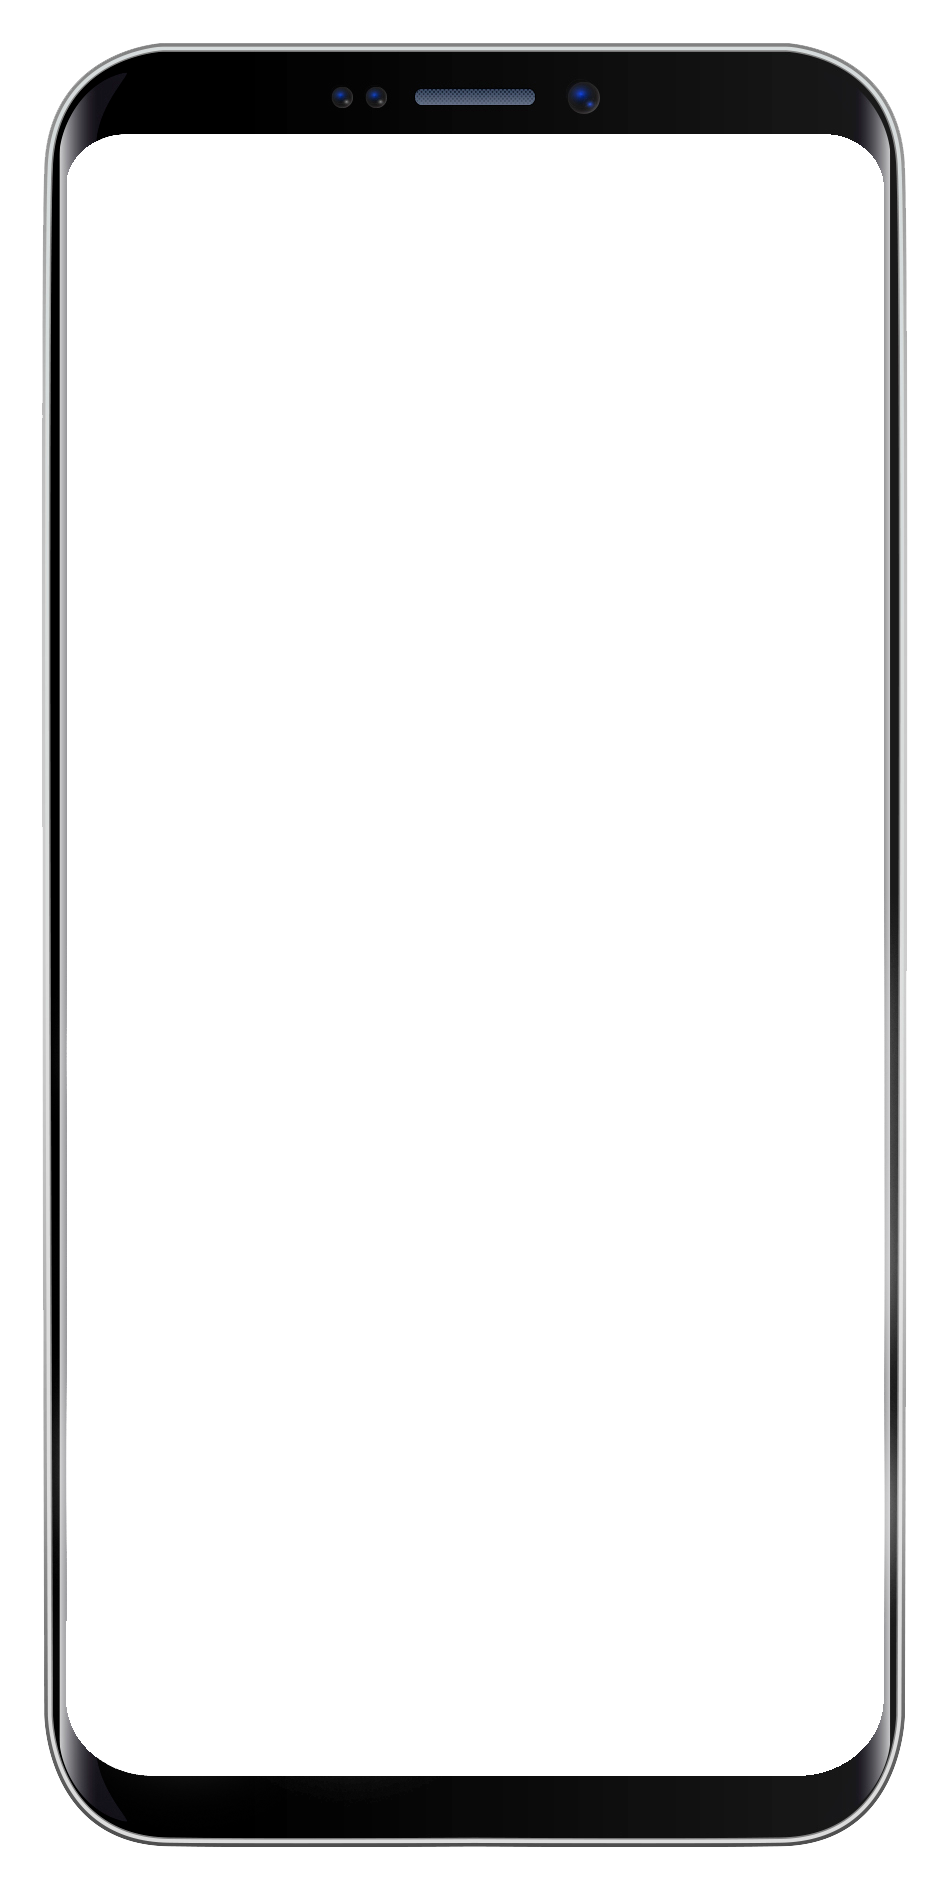
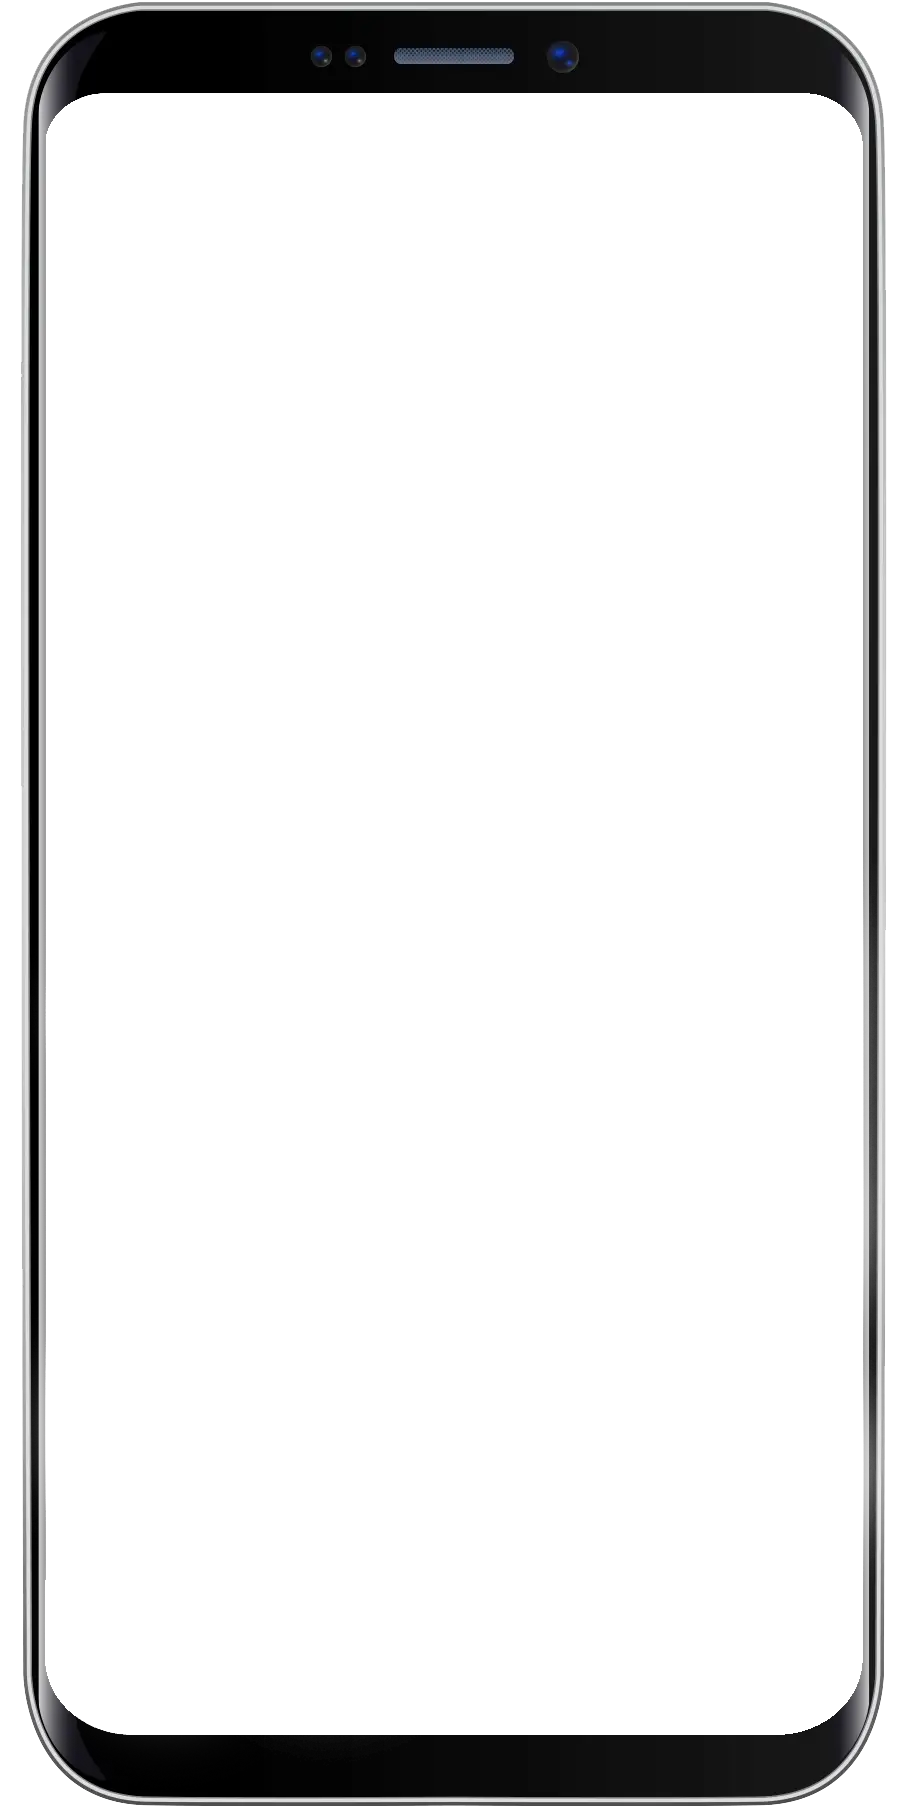
arlo resize cards and mobile phone img

Changed region(s): [[0.0, 0.0, 0.9933, 1.0]]

diff --git a/english_guide/src/screens/Dashboard/CameraDB.jsx b/english_guide/src/screens/Dashboard/CameraDB.jsx
@@ -63,7 +63,7 @@ const CameraDB = ({ cameraData }) => {
 
   return (
     <div className="flex flex-col justify-start w-[60%] pr-5 z-100">
-      <div className="topside flex flex-row items-center w-full h-[50%] justify-between gap-1">
+      <div className="topside flex flex-row items-center w-full h-[50%] justify-between gap-1 pb-1">
         {/* Image Camera */}
         <div className="rounded-lg">
           {cameraData?.icon ? (
@@ -86,7 +86,7 @@ const CameraDB = ({ cameraData }) => {
             color: theme === "light" ? "black" : "white",
             border: theme === "light" ? "1px solid #eaeaea" : "1px solid #333",
             // minWidth: "16rem",
-            height: "19.5rem"
+            height: "-webkit-fill-available"
           }}
         >
           <Text
@@ -129,7 +129,7 @@ const CameraDB = ({ cameraData }) => {
           </Text>
         </Card>
       </div>
-      <div className="bottomside flex flex-row items-center w-full h-[50%] justify-between gap-1">
+      <div className="bottomside flex flex-row items-center w-full h-[50%] justify-between gap-1 pt-1">
         {/* Maintenances Camera Card */}
         <Card
           shadow
@@ -139,7 +139,7 @@ const CameraDB = ({ cameraData }) => {
             background: theme === "light" ? "#fafafa" : "black",
             color: theme === "light" ? "black" : "white",
             border: theme === "light" ? "1px solid #eaeaea" : "1px solid #333",
-            height: "19.5rem",
+            height: "-webkit-fill-available",
           }}
         >
           <Card.Content>
@@ -216,7 +216,7 @@ const CameraDB = ({ cameraData }) => {
             background: theme === "light" ? "#fafafa" : "black",
             color: theme === "light" ? "black" : "white",
             border: theme === "light" ? "1px solid #eaeaea" : "1px solid #333",
-            Height: "19.5rem",
+            height: "-webkit-fill-available",
           }}>
           <Card.Content>
             <Text

diff --git a/english_guide/src/components/AppDemo.jsx b/english_guide/src/components/AppDemo.jsx
@@ -2,8 +2,8 @@ import React from 'react'
 
 const AppDemo = () => {
     return (
-        <div className='flex items-center content-center'>
-            <div className="bg-contain bg-center bg-no-repeat w-[355px] h-[710px] shrink-0 relative bg-movil">
+        <div className='flex items-start content-center'>
+            <div className="bg-contain bg-center bg-no-repeat w-[361px] h-[742px] relative bg-movil">
                 <iframe frameborder="0"
                     style={{
                         position: "absolute",
